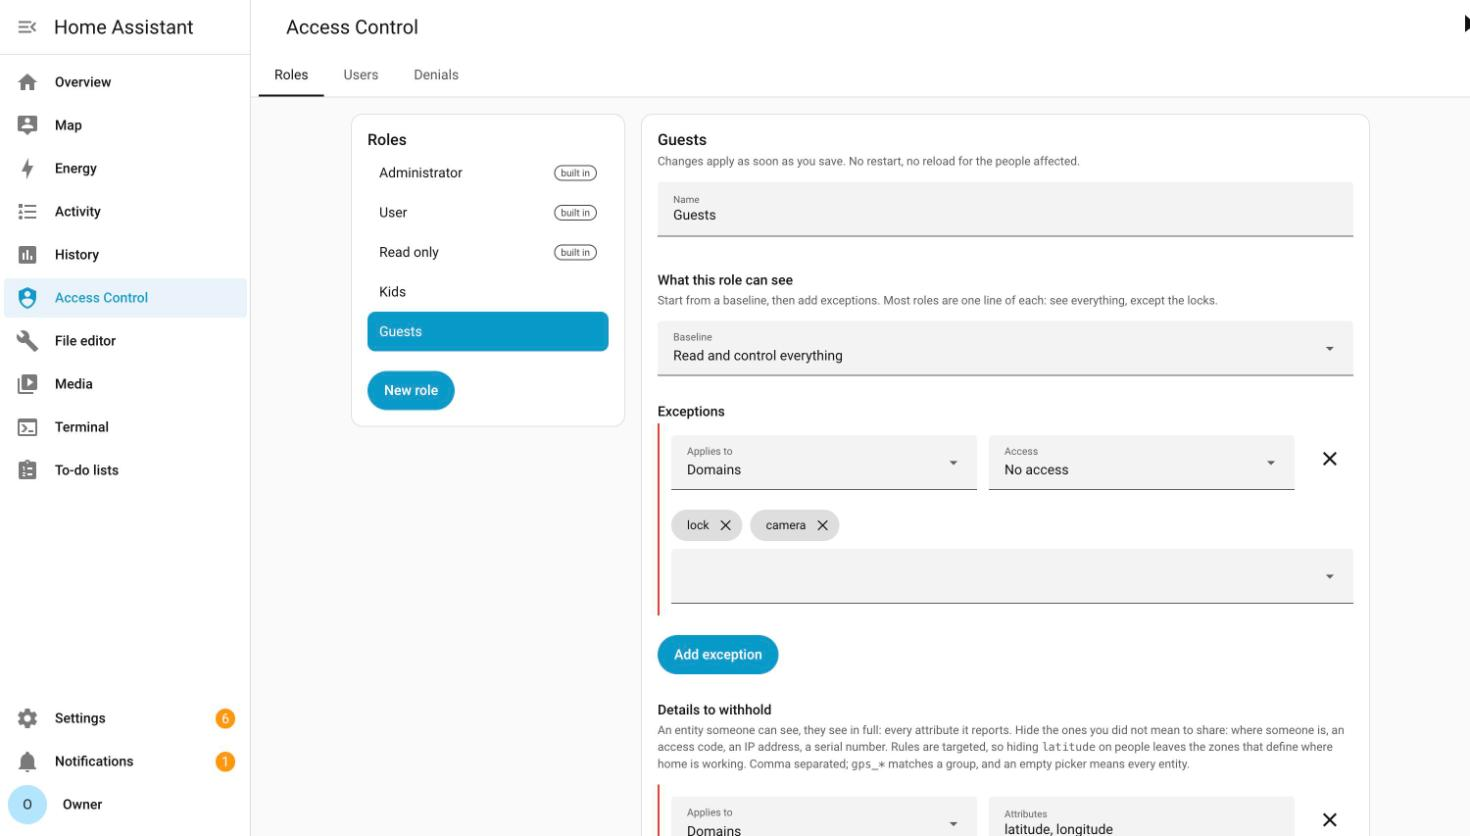
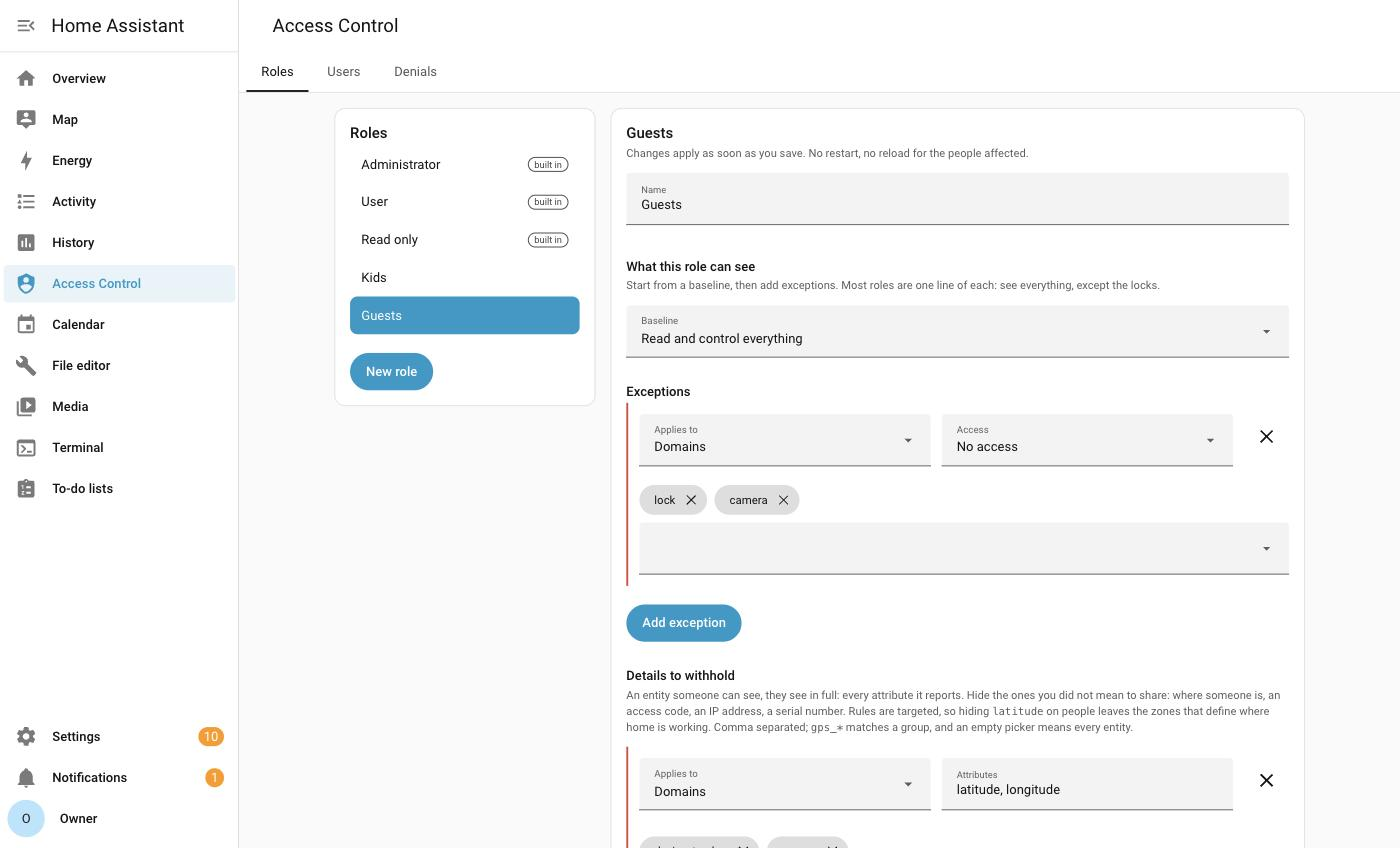
Retake the screenshots, and drop a limitation that said nothing
The role editor gained a section since the last set was taken, so the hero is
current again and the hours section carries a shot of the two windows from the
example.

"Hiding something hides it well, but doesn't rewrite history" was a paragraph
saying a hidden thing is still installed, which nobody was going to mistake.

Claude-Session: https://claude.ai/code/session_01NnbK5vZZkY4MaMfJFifmG8

diff --git a/README.md b/README.md
@@ -113,6 +113,10 @@ is still in force at one on Saturday morning.
 It takes effect on connections that are already open, so someone does not keep
 what they had until they close the tab.
 
+<p align="center">
+  <img src="screenshots/panel-schedule.jpg" alt="Two time windows on the same role" width="820">
+</p>
+
 ### ⚙ Commands: what they can change
 
 **Ordinary use**, or **everything including settings**. Which half is which is
@@ -271,12 +275,6 @@ install step for plain, unfiltered Home Assistant.
 
 - **Automations aren't affected.** They run as the system, not as a person, so
   an automation can still touch anything. Same as stock Home Assistant.
-- **Hiding something hides it well, but doesn't rewrite history.** A denied
-  dashboard is gone from the sidebar and its config is refused; a denied add-on
-  leaves the sidebar, its Supervisor endpoints are refused, it's dropped from
-  the add-on listings, and its own web page is refused even to someone who
-  knows its address. What none of it does is pretend the thing was never
-  installed. Someone determined can still tell something is being withheld.
 
 ## Contributing
 
